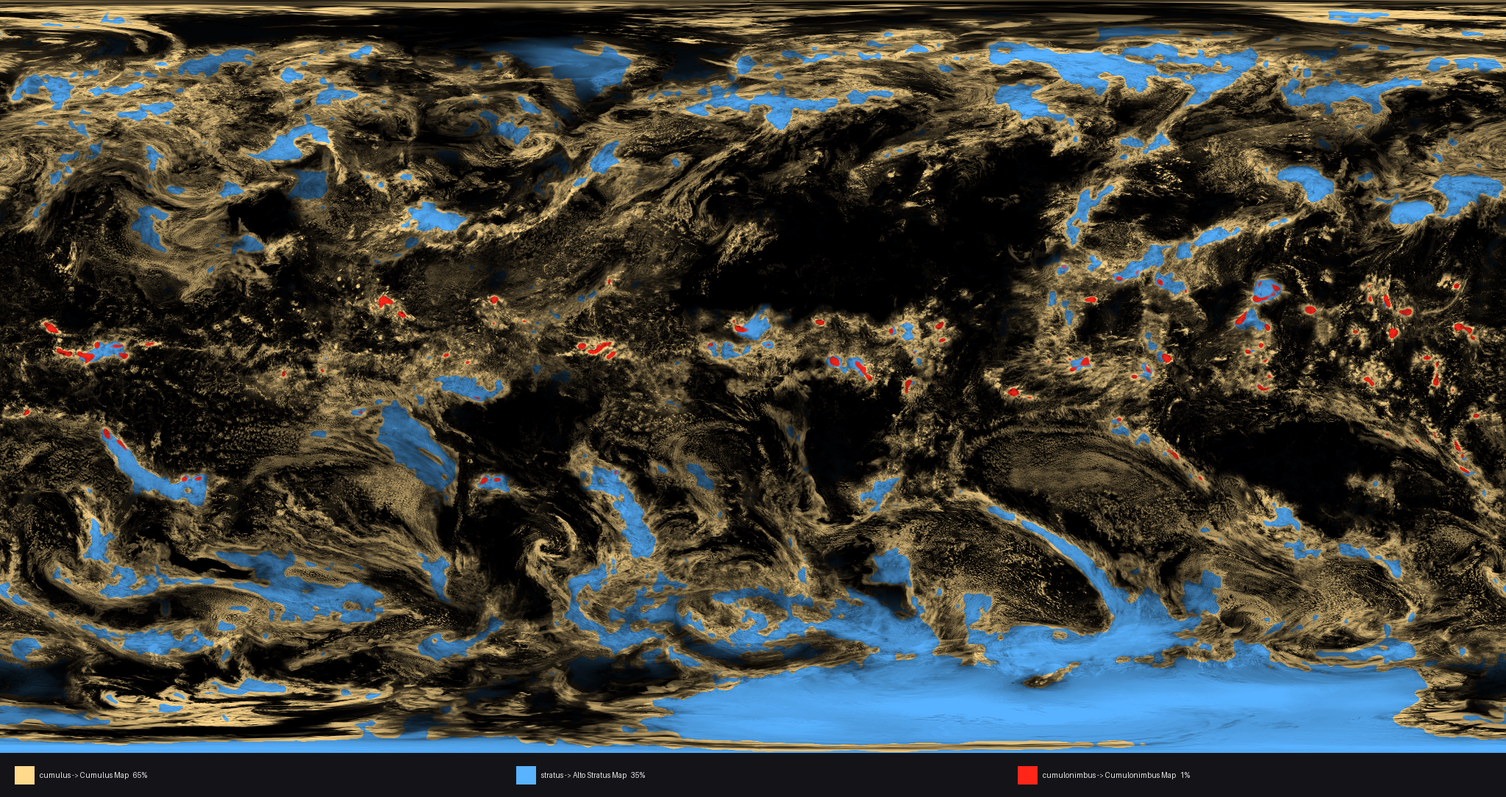
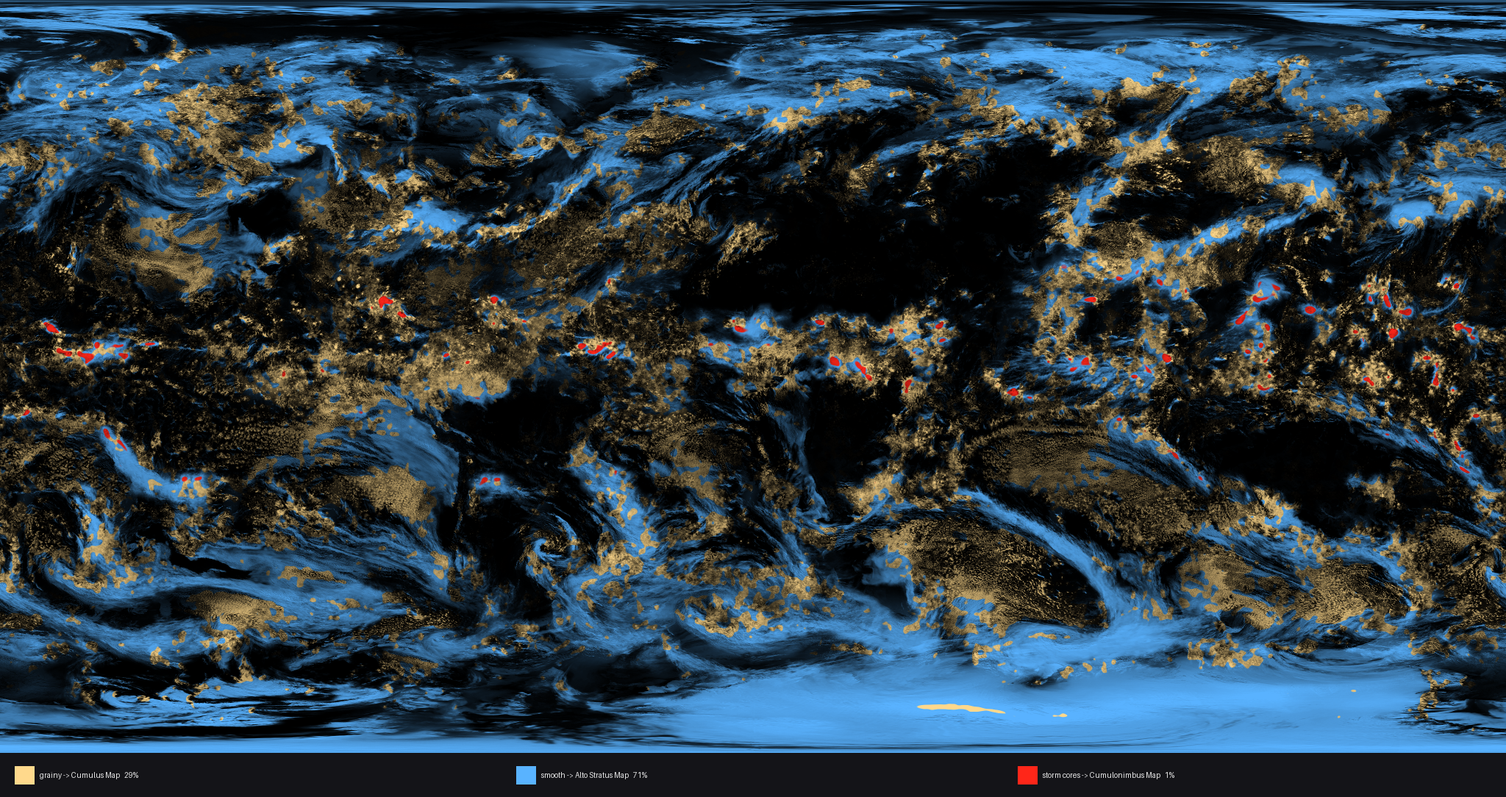
Cloud types: tell grainy fields from smeared veils by streak direction
Brightness-relative grain counted dim, smeared, semi-transparent veils
as grainy (Cumulus Map). Grain is now measured in absolute terms at
~10 km/px, and combined with streak coherence (structure tensor):
cellular fields ripple equally in all directions, veils and fronts in
streaks along the flow. Thresholds from the cellular field (grain ~0.11,
coherence ~0.37), a smeared veil (0.09 / 0.44) and a front (0.09 / 0.63);
decisions are made per ~100 km region. Result on input_clouds.jpg:
grainy 29%, smooth 71%, storm cores 1%, mixed type 9%.

Classes are now named after the HDRP maps (grainy / smooth / storm
cores) rather than meteorological types.

Claude-Session: https://claude.ai/code/session_01FATooboYGdYy2uKnWTDHmD

diff --git a/Tools/classify_cloud_types.py b/Tools/classify_cloud_types.py
@@ -6,25 +6,35 @@
 На выходе карта долей типов 2048×1024 (типы меняются от района к району, больше не нужно;
 детали облаков остаются в исходной карте):
 
-    R — доля кучевых       → Cumulus Map в HDRP
-    G — доля слоистых      → Alto Stratus Map
-    B — доля кучево-дождевых → Cumulonimbus Map
+    R — доля зернистых облаков → Cumulus Map в HDRP
+    G — доля ровных облаков    → Alto Stratus Map
+    B — доля грозовых ядер     → Cumulonimbus Map
     A — облачность (уменьшенная исходная карта, только для превью и проверки)
 
 В каждой точке R + G + B = 1. Границы между типами узкие: HDRP рисует смешанный тип там, где
-и кучевых, и слоистых больше 1%, поэтому мягкие доли превратили бы почти всю карту в смешанный тип.
+и Cumulus, и Alto Stratus больше 1%, поэтому мягкие доли превратили бы почти всю карту в смешанный тип.
 
-Правила (на масштабе ~20 км на пиксель):
-  - кучевые — «зернистые» поля: много мелких деталей (ячейки, комки, просветы);
-  - кучево-дождевые — яркие компактные массы, заметно ярче окрестности, в полосе ±30° от экватора
-    (сверху это гладкие наковальни гроз — без отдельного правила они ушли бы в слоистые);
-  - слоистые — всё остальное: ровные поля, фронты, пелены.
+Названия — по картам HDRP, а не по метеорологии: «зернистые» — это и кучевые, и слоисто-кучевые
+ячейки; «ровные» — фронты, высокослоистые, перистые пелены, низкие слоистые; «грозовые ядра» —
+тропические скопления гроз.
+
+Признаки считаются на масштабе ~10 км на пиксель, решение принимается по району (~100 км):
+  - зернистые → Cumulus Map: заметная мелкая рябь (ячейки, комки, просветы), одинаковая во все
+    стороны. Так выглядят поля ячеистых облаков над океанами и поля мелких облаков в тропиках;
+  - грозовые ядра → Cumulonimbus Map: яркие компактные массы, заметно ярче окрестности, в полосе ±30°
+    от экватора (сверху это гладкие наковальни гроз — без отдельного правила они ушли бы в ровные);
+  - ровные → Alto Stratus Map: всё остальное — фронты, пелены, размазанные полосы. Рябь в них, если
+    есть, вытянута вдоль потока; это отличает их от зернистых полей даже при той же силе ряби.
+
+Вытянутость ряби — когерентность структурного тензора: 0 — рябь одинакова во все стороны,
+1 — полосы в одну сторону.
 """
 import sys
 import numpy as np
 from PIL import Image
 
-OUT_W, OUT_H = 2048, 1024   # ~20 км на пиксель — на этом масштабе подобраны пороги
+WORK_W, WORK_H = 4096, 2048   # ~10 км на пиксель — на этом масштабе считаются признаки и подобраны пороги
+OUT_W, OUT_H = 2048, 1024     # ~20 км на пиксель — карта типов (типы меняются от района к району)
 
 
 def box(a, r):
@@ -48,26 +58,40 @@ def smooth(e0, e1, x):
 
 
 def classify(src_path):
-    img = Image.open(src_path).convert('L').resize((OUT_W, OUT_H), Image.BOX)   # усреднение, а не прореживание
+    img = Image.open(src_path).convert('L').resize((WORK_W, WORK_H), Image.BOX)   # усреднение, а не прореживание
     b = np.asarray(img).astype(np.float64) / 255
-    b = np.clip(b / np.percentile(b, 99.5), 0, 1)           # самое яркое облако = 1
-    lat = np.abs(np.linspace(90, -90, OUT_H))[:, None] * np.ones((1, OUT_W))
+    b = np.clip(b / np.percentile(b, 99.5), 0, 1)             # самое яркое облако = 1
+    lat = np.abs(np.linspace(90, -90, WORK_H))[:, None] * np.ones((1, WORK_W))
 
-    # признаки
-    m_loc = blur(b, 3)                                        # яркость в окрестности ~150 км
-    m_reg = blur(b, 10)                                       # средняя яркость района ~800 км
-    detail = b - blur(b, 2)                                   # мелкие детали: комки, ячейки, просветы
-    texture = np.sqrt(np.maximum(blur(detail * detail, 3), 0)) / (m_loc + 0.1)
+    # яркость
+    m_loc = blur(b, 6)                                        # в окрестности ~150 км
+    m_reg = blur(b, 20)                                       # средняя по району ~800 км
 
-    # мягкие оценки
-    cu_soft = smooth(0.06, 0.13, texture)
+    # сила мелкой ряби (ячейки, комки, просветы ~20–40 км), по району ~100 км
+    detail = b - blur(b, 2)
+    grain = blur(np.sqrt(np.maximum(blur(detail * detail, 4), 0)), 5)
+
+    # вытянутость ряби: когерентность структурного тензора, по району ~100 км
+    s = blur(b, 1)
+    gx = (np.roll(s, -1, 1) - np.roll(s, 1, 1)) / 2
+    gy = np.zeros_like(s)
+    gy[1:-1] = (s[2:] - s[:-2]) / 2
+    jxx, jyy, jxy = blur(gx * gx, 4), blur(gy * gy, 4), blur(gx * gy, 4)
+    streaks = blur(np.sqrt((jxx - jyy) ** 2 + 4 * jxy ** 2) / (jxx + jyy + 1e-6), 5)
+
+    # зернистость: рябь «за», вытянутость «против». Пороги подобраны по ячеистому полю (рябь ~0.11,
+    # вытянутость ~0.37), размазанной пелене (~0.09 / 0.44) и фронту (~0.09 / 0.63)
+    grainy = (grain - 0.08) / 0.03 - (streaks - 0.42) / 0.08
     cb_soft = smooth(0.55, 0.75, m_loc) * smooth(0.10, 0.25, m_loc - m_reg) * (1 - smooth(20, 32, lat))
 
     # узкие границы между типами
     w_cb = smooth(0.30, 0.60, cb_soft)
-    w_cu = smooth(0.40, 0.60, cu_soft) * (1 - w_cb)
+    w_cu = smooth(-0.3, 0.3, grainy) * (1 - w_cb)
     w_st = 1 - w_cb - w_cu
-    return b, w_cu, w_st, w_cb
+
+    def down(a):   # 4096 → 2048: среднее по 2×2
+        return a.reshape(OUT_H, 2, OUT_W, 2).mean((1, 3))
+    return down(b), down(w_cu), down(w_st), down(w_cb)
 
 
 def save_preview(path, b, w_cu, w_st, w_cb):
@@ -81,9 +105,9 @@ def save_preview(path, b, w_cu, w_st, w_cb):
     canvas.paste(p, (0, 0))
     dr = ImageDraw.Draw(canvas)
     x = 20
-    for name, c, w in (("cumulus -> Cumulus Map", (255, 217, 140), w_cu),
-                       ("stratus -> Alto Stratus Map", (89, 179, 255), w_st),
-                       ("cumulonimbus -> Cumulonimbus Map", (255, 38, 25), w_cb)):
+    for name, c, w in (("grainy -> Cumulus Map", (255, 217, 140), w_cu),
+                       ("smooth -> Alto Stratus Map", (89, 179, 255), w_st),
+                       ("storm cores -> Cumulonimbus Map", (255, 38, 25), w_cb)):
         dr.rectangle([x, H + 18, x + 26, H + 42], fill=c)
         dr.text((x + 34, H + 24), f"{name}   {(b * w).sum() / b.sum():.0%}", fill=(230, 230, 230))
         x += W // 3
@@ -98,10 +122,10 @@ def main():
     if len(sys.argv) > 3:
         save_preview(sys.argv[3], b, w_cu, w_st, w_cb)
     tot = b.sum()
-    print(f"{out}: {OUT_W}x{OUT_H}; доли облачности: кучевые {(b * w_cu).sum() / tot:.0%}, "
-          f"слоистые {(b * w_st).sum() / tot:.0%}, кучево-дождевые {(b * w_cb).sum() / tot:.0%}")
+    print(f"{out}: {OUT_W}x{OUT_H}; доли облачности: зернистые {(b * w_cu).sum() / tot:.0%}, "
+          f"ровные {(b * w_st).sum() / tot:.0%}, грозовые ядра {(b * w_cb).sum() / tot:.0%}")
     mixed = ((w_cu > 0.01) & (w_st > 0.01) & (b > 0.1)).sum() / max((b > 0.1).sum(), 1)
-    print(f"смешанный тип (и кучевые, и слоистые больше 1%): {mixed:.0%} облачных пикселей")
+    print(f"смешанный тип (и Cumulus, и Alto Stratus больше 1%): {mixed:.0%} облачных пикселей")
 
 
 if __name__ == '__main__':

diff --git a/Clouds/SimplePlanetClouds.cs b/Clouds/SimplePlanetClouds.cs
@@ -53,8 +53,8 @@ public class SimplePlanetClouds : MonoBehaviour
              "Пусто — берётся Base Color Map из материала сферы.")]
     public Texture2D patchSourceTexture;
 
-    [Tooltip("Карта типов облаков (Tools/classify_cloud_types.py): R — доля кучевых, G — слоистых, " +
-             "B — кучево-дождевых. Та же проекция, что у карты облаков; хватает 2048×1024. " +
+    [Tooltip("Карта типов облаков (Tools/classify_cloud_types.py): R — доля зернистых облаков (Cumulus Map), " +
+             "G — ровных (Alto Stratus Map), B — грозовых ядер (Cumulonimbus Map). Та же проекция, что у карты облаков; хватает 2048×1024. " +
              "Импорт: Read/Write включён, sRGB выключен, Compression = None. Пусто — все облака кучевые.")]
     public Texture2D cloudTypes;
 
@@ -604,7 +604,7 @@ public class SimplePlanetClouds : MonoBehaviour
         _patchPixels[Stratus][n] = Gray(coverage * types.g);
         _patchPixels[Cumulonimbus][n] = Gray(coverage * types.b);
 
-        // мини-карта: кучевые — тёплый белый, слоистые — голубой, кучево-дождевые — красный (как в превью)
+        // мини-карта: зернистые — тёплый белый, ровные — голубой, грозовые ядра — красный (как в превью)
         Color tint = types.r * new Color(1f, 0.85f, 0.55f) + types.g * new Color(0.35f, 0.7f, 1f)
                    + types.b * new Color(1f, 0.15f, 0.1f);
         _patchColorPixels[n] = (Color32)(tint * coverage);
@@ -874,7 +874,7 @@ public class SimplePlanetClouds : MonoBehaviour
 
         DrawMinimap(new Rect(10, y, 240, 240));
         GUI.Label(new Rect(10, y + 242, 240, 52),
-                  "облака: жёлтые — кучевые, голубые — слоистые, красные — грозовые; в рамке — патч, " +
+                  "облака: жёлтые — зернистые (Cumulus), голубые — ровные (Alto Stratus), красные — грозовые ядра; в рамке — патч, " +
                   "затемнено — повторы; белая точка — камера, сиреневое — взгляд, зелёное — горизонт", small);
 
         var r = new Rect(260, y, 380, 190);

diff --git a/Clouds/CloudShell_Graph.md b/Clouds/CloudShell_Graph.md
@@ -165,11 +165,18 @@ HDRP не знает о повороте планеты, поэтому `SimpleP
 
     python Tools/classify_cloud_types.py <карта облаков> Clouds/Types/CloudTypes.png [превью.png]
 
-- **кучевые** (Cumulus Map) — «зернистые» поля: ячейки, комки, просветы;
-- **слоистые** (Alto Stratus Map) — ровные поля, фронты, пелены;
-- **кучево-дождевые** (Cumulonimbus Map) — яркие компактные массы ярче окрестности, ±30° от экватора.
+- **зернистые** → Cumulus Map — заметная мелкая рябь, одинаковая во все стороны: ячеистые поля над
+  океанами, поля мелких облаков в тропиках;
+- **ровные** → Alto Stratus Map — фронты, пелены, размазанные полосы (рябь в них, если есть,
+  вытянута вдоль потока);
+- **грозовые ядра** → Cumulonimbus Map — яркие компактные массы ярче окрестности, ±30° от экватора.
+
+Названия — по картам HDRP, а не по метеорологии: «типы» HDRP — это профили внутри одного слоя,
+а не настоящие высоты кучевых, высокослоистых и т. д.
 
 На выходе `CloudTypes.png` 2048×1024: R, G, B — доли этих типов (в сумме 1), A — облачность для проверки.
+Если открыть его просто как картинку, зернистые будут красными (канал R), ровные — зелёными,
+грозовые — синими, а тонкие облака — полупрозрачными (канал A). Цвета превью — отдельная раскраска.
 Детали облаков остаются в исходной карте, карта типов говорит только, какого типа облака в этом месте.
 
 В Unity: импорт `CloudTypes.png` — Read/Write **вкл**, sRGB **выкл**, Compression **None**; укажите его
